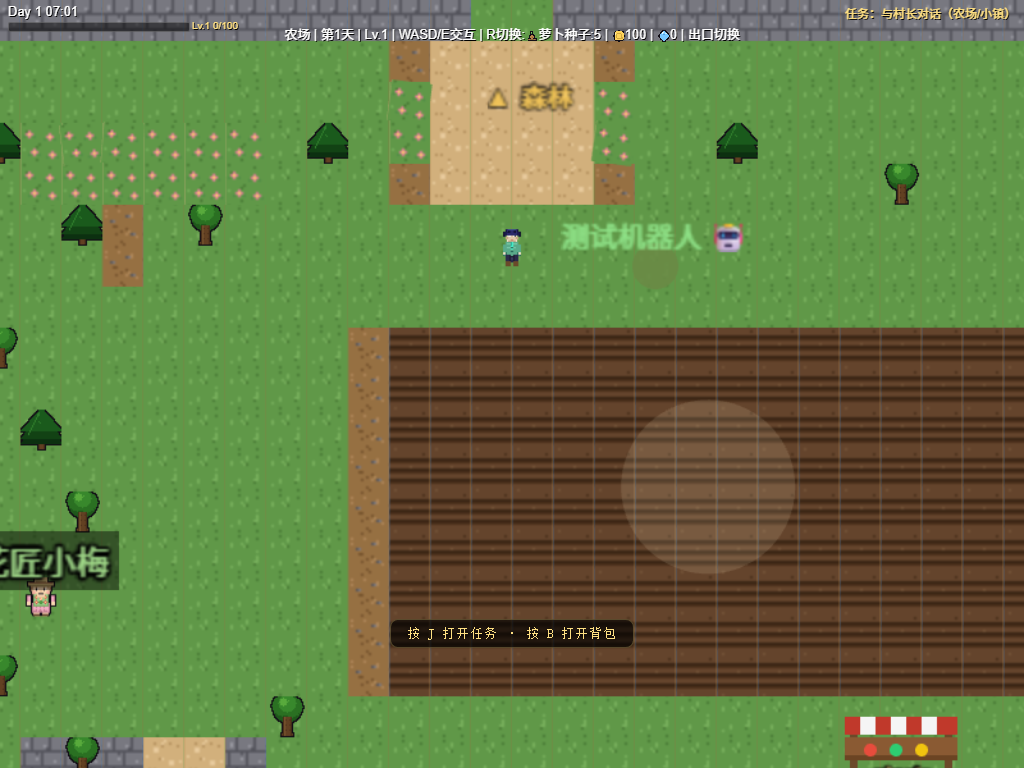
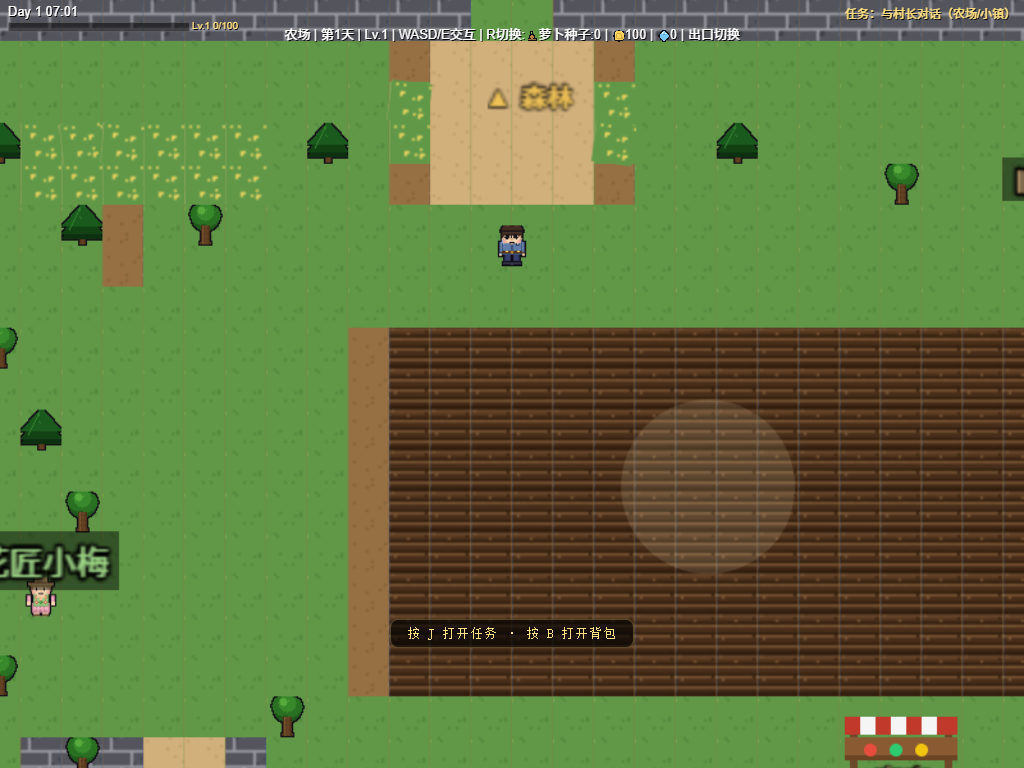
fix(npc): BUG-041 神秘少女对话后精灵隐藏（运行时 vanished+作息刷新恢复）
NPC.setVanished 隐藏精灵/标签不存档；MapScene 对白完成触发+交互跳过；NPCSystem.refreshSchedule 清标记恢复出现；probe-bug041-mystery-vanish 9/9 + npc回归全绿

diff --git a/src/entities/NPC.ts b/src/entities/NPC.ts
@@ -50,6 +50,10 @@ export class NPC {
    *  不进入存档，不影响对话/任务/好感 */
   dailyAction: string = '';
 
+  /** BUG-041：对白结束后演出消失标记（"消失在林间"），仅运行时，不存档。
+   *  refreshSchedule() 时清除 → 重新进入场景 / 跨天 / 下一时段按作息恢复出现 */
+  vanished = false;
+
   /** 渲染对象（由 MapScene 在 create 时创建并赋值，离开场景时置空） */
   sprite: Phaser.GameObjects.Image | null = null;
   /** 名字标签 */
@@ -319,5 +323,15 @@ export class NPC {
       this.sprite.scaleX = 0.5;
       this.sprite.scaleY = 0.5;
     }
+  }
+
+  /** BUG-041：演出消失（对白末尾"消失在林间"）——隐藏精灵/标签并停止动作。
+   *  仅运行时演出层，不存档；由 MapScene 对白完成后调用。
+   *  恢复：refreshSchedule() 清除 vanished 标记（重新进场景 / 睡觉跨天 / 下一时段）。 */
+  setVanished(): void {
+    this.vanished = true;
+    this.stopIdleAnimation();
+    if (this.sprite) this.sprite.setVisible(false);
+    if (this.label) this.label.setVisible(false);
   }
 }

diff --git a/src/scenes/MapScene.ts b/src/scenes/MapScene.ts
@@ -1681,6 +1681,10 @@ export class MapScene extends Phaser.Scene {
       lines = [...lines, ...getMysteryAfterObservatory()];
     }
     this.storyDialogue.play(lines, () => {
+      // BUG-041：神秘少女对白末尾「消失在林间」→ 对话完成隐藏精灵（演出层，不存档）
+      if (npc.id === 'mystery') {
+        npc.setVanished();
+      }
       // 商店老板：对话结束后自动打开商店
       if (npc.id === 'shopkeeper') {
         this.inputManager.clearAction();
@@ -1900,7 +1904,7 @@ export class MapScene extends Phaser.Scene {
     let nearest: NPC | null = null;
     let nearestDist = 24 * 24;
     for (const npc of this.npcList) {
-      if (!npc.sprite) continue;
+      if (!npc.sprite || npc.vanished) continue;
       const dx = this.player.x - npc.sprite.x;
       const dy = this.player.y - npc.sprite.y;
       const d2 = dx * dx + dy * dy;

diff --git a/src/systems/NPCSystem.ts b/src/systems/NPCSystem.ts
@@ -358,6 +358,8 @@ export function refreshSchedule(): void {
     npc.targetY = active.y;
     // v0.6 NPC 生活化 P0：写入当前时段动作（仅渲染用，不存档）
     npc.dailyAction = active.action ?? '';
+    // BUG-041：演出消失标记随作息刷新清除（重新进场景 / 跨天 / 下一时段恢复出现）
+    npc.vanished = false;
   }
 }
 
